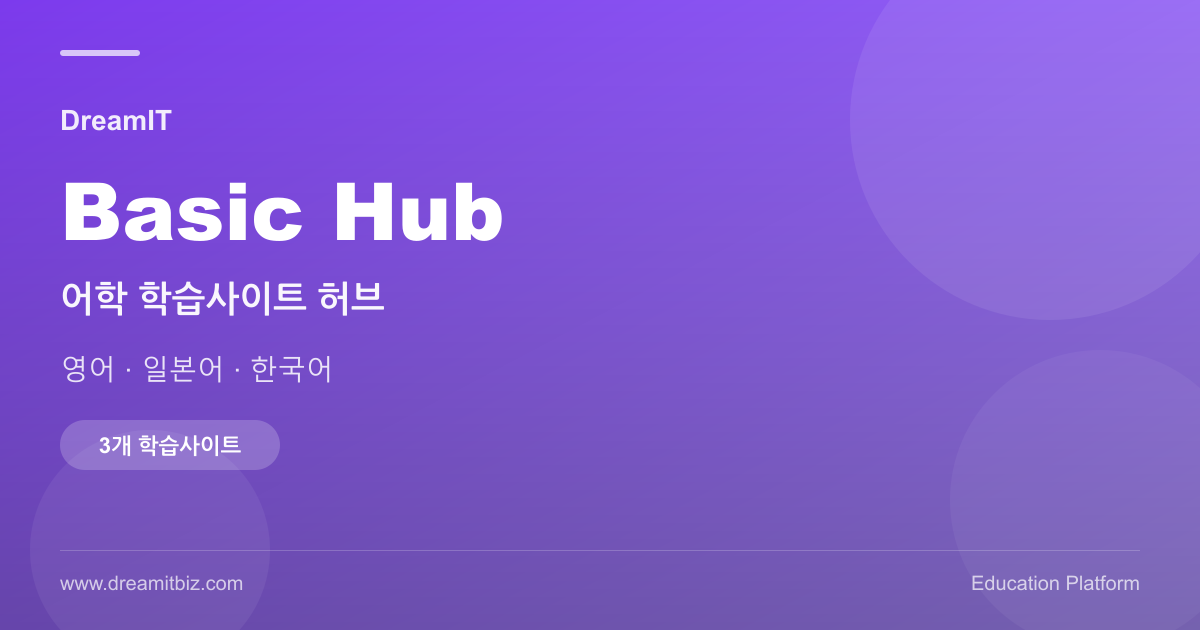
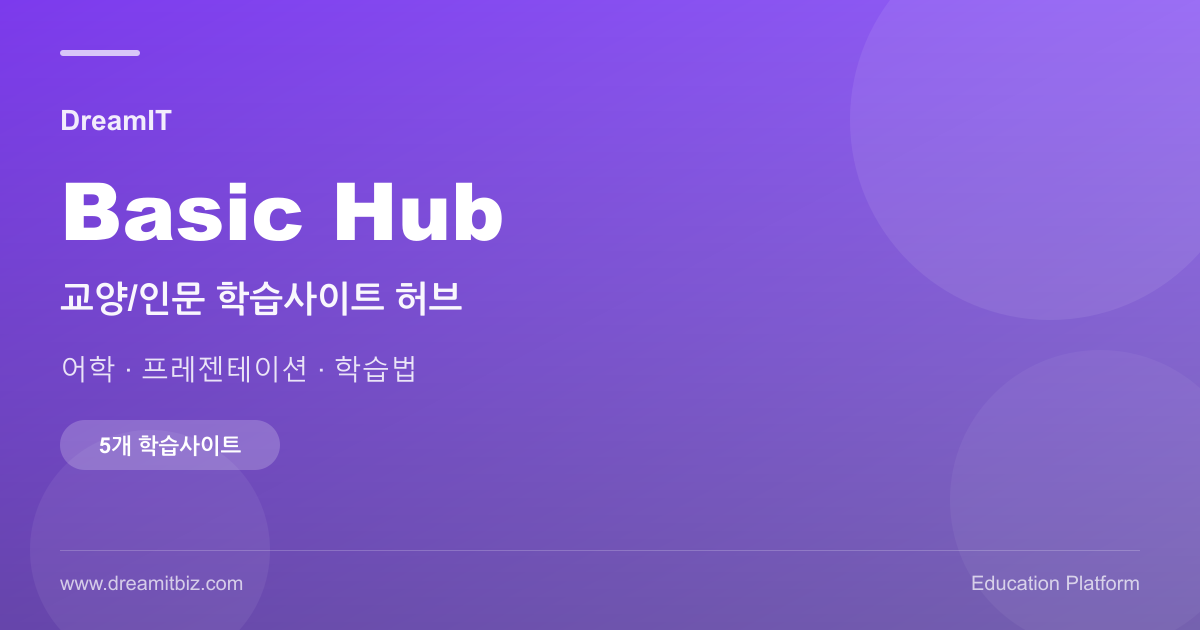
Rebrand as 교양/인문 hub, add presentation and study sites
- Renamed from 어학 to 교양/인문 (liberal arts & humanities) hub
- Added presentation and study (공부 잘하는 방법) to learningSites
- Added skill category alongside existing language category
- Updated all meta tags, translations (ko/en), OG image
- 3 → 5 learning sites, 1 → 2 categories

Changed region(s): [[0.0308, 0.4524, 0.4008, 0.5127], [0.1233, 0.5429, 0.37, 0.6032], [0.0308, 0.5429, 0.0925, 0.6032]]

diff --git a/src/utils/translations.ts b/src/utils/translations.ts
@@ -174,10 +174,13 @@ export const translations: Record<string, Record<string, unknown>> = {
     site: {
       nav: {
         courses: '강좌',
+        liberal: '교양/인문',
         language: '어학',
         english: '영어',
         japanese: '일본어',
         korean: '한국어',
+        presentation: '프레젠테이션',
+        study: '공부 잘하는 방법',
         pricing: '요금제',
         franchise: '사이트분양',
         franchiseInquiry: '분양 문의',
@@ -188,8 +191,8 @@ export const translations: Record<string, Record<string, unknown>> = {
       },
       home: {
         title: 'DreamIT Basic Hub',
-        subtitle: '어학 학습의 새로운 기준',
-        heroDesc: '영어, 일본어, 한국어 — 어학 3개 학습사이트를 하나의 허브에서 만나보세요.',
+        subtitle: '교양/인문 학습의 새로운 기준',
+        heroDesc: '어학, 프레젠테이션, 학습법 — 교양/인문 5개 학습사이트를 하나의 허브에서 만나보세요.',
         ctaStart: '강좌 둘러보기',
         ctaFranchise: '사이트 분양 문의',
         statsTitle: 'Basic Hub 현황',
@@ -198,24 +201,26 @@ export const translations: Record<string, Record<string, unknown>> = {
         statCategories: '카테고리',
         statCompletion: '만족도',
         categoriesTitle: '학습 카테고리',
-        categoriesSubtitle: '체계적인 어학 교육 커리큘럼을 제공합니다',
+        categoriesSubtitle: '교양과 인문학을 아우르는 체계적인 교육 커리큘럼을 제공합니다',
         categoryCoursesCount: '개 강좌',
         categoryViewAll: '전체 보기',
         categoryLanguageDesc: '영어, 일본어, 한국어를 체계적으로 학습합니다.',
-        ctaBottomTitle: '지금 어학 학습을 시작하세요',
-        ctaBottomDesc: '3개 어학 학습사이트에서 체계적인 커리큘럼으로 학습할 수 있습니다.',
+        categorySkillDesc: '프레젠테이션, 학습법 등 실용 교양 스킬을 학습합니다.',
+        ctaBottomTitle: '지금 교양/인문 학습을 시작하세요',
+        ctaBottomDesc: '5개 교양/인문 학습사이트에서 체계적인 커리큘럼으로 학습할 수 있습니다.',
         ctaBottomBtn: '강좌 시작하기'
       },
       courses: {
         title: '전체 강좌',
-        subtitle: '어학 학습사이트의 모든 강좌를 확인하세요',
+        subtitle: '교양/인문 학습사이트의 모든 강좌를 확인하세요',
         curriculum: '커리큘럼',
         features: '특징',
         target: '대상',
         visitSite: '사이트 방문하기',
         comingSoon: '준비중',
         categoryTitle: {
-          language: '어학 강좌'
+          language: '어학 강좌',
+          skill: '교양/스킬 강좌'
         }
       },
       difficulty: {
@@ -225,12 +230,12 @@ export const translations: Record<string, Record<string, unknown>> = {
       },
       franchise: {
         title: '사이트 분양',
-        subtitle: '어학 학습사이트를 분양받아 운영하세요',
+        subtitle: '교양/인문 학습사이트를 분양받아 운영하세요',
         benefitsTitle: '분양 혜택',
         benefit1Title: '맞춤형 디자인',
         benefit1Desc: '브랜드에 맞는 커스터마이징 디자인을 제공합니다.',
         benefit2Title: '콘텐츠 패키지',
-        benefit2Desc: '검증된 어학 학습 콘텐츠를 포함하여 제공합니다.',
+        benefit2Desc: '검증된 교양/인문 학습 콘텐츠를 포함하여 제공합니다.',
         benefit3Title: '기술 지원',
         benefit3Desc: '지속적인 기술 지원과 업데이트를 제공합니다.',
         benefit4Title: '교육 컨설팅',
@@ -245,7 +250,7 @@ export const translations: Record<string, Record<string, unknown>> = {
         formSite: '희망 사이트',
         formSiteSelect: '사이트를 선택하세요',
         formExperience: '관련 경험',
-        formExperiencePh: '교육 또는 어학 관련 경험을 작성해주세요',
+        formExperiencePh: '교육 또는 교양/인문 관련 경험을 작성해주세요',
         formMotivation: '분양 동기',
         formMotivationPh: '사이트 분양을 희망하는 이유를 작성해주세요',
         formPortfolio: '포트폴리오 URL (선택)',
@@ -260,12 +265,12 @@ export const translations: Record<string, Record<string, unknown>> = {
         title: '허브 소개',
         subtitle: 'DreamIT Basic Hub에 대해 알아보세요',
         missionTitle: '미션',
-        missionDesc: '체계적인 어학 교육을 통해 누구나 외국어 역량을 키울 수 있는 학습 환경을 제공합니다.',
+        missionDesc: '교양과 인문학 교육을 통해 누구나 폭넓은 지식과 소양을 갖출 수 있는 학습 환경을 제공합니다.',
         visionTitle: '비전',
-        visionDesc: '어학 교육의 디지털 혁신을 이끌어, 대한민국 최고의 어학 학습 허브가 되겠습니다.',
+        visionDesc: '교양/인문 교육의 디지털 혁신을 이끌어, 대한민국 최고의 교양/인문 학습 허브가 되겠습니다.',
         valuesTitle: '핵심 가치',
         value1Title: '실무 중심',
-        value1Desc: '실생활에서 바로 활용할 수 있는 실전형 어학 교육을 추구합니다.',
+        value1Desc: '실생활에서 바로 활용할 수 있는 실전형 교양/인문 교육을 추구합니다.',
         value2Title: '글로벌 관점',
         value2Desc: '글로벌 소통 능력을 키우는 데 초점을 맞춥니다.',
         value3Title: '혁신',
@@ -285,10 +290,10 @@ export const translations: Record<string, Record<string, unknown>> = {
       },
       pricing: {
         title: '요금제 안내',
-        subtitle: '학습 목표에 맞는 요금제를 선택하세요. 모든 플랜에서 어학 학습 콘텐츠를 이용할 수 있습니다.',
+        subtitle: '학습 목표에 맞는 요금제를 선택하세요. 모든 플랜에서 교양/인문 학습 콘텐츠를 이용할 수 있습니다.',
         recommended: '추천',
         freeName: 'Free',
-        freeDesc: '어학 학습을 체험하고 시작할 수 있습니다.',
+        freeDesc: '교양/인문 학습을 체험하고 시작할 수 있습니다.',
         freeFeatures: '1개 강좌 체험|기본 학습 자료|커뮤니티 접근|이메일 지원',
         freeBtn: '무료 시작',
         basicName: 'Basic',
@@ -325,7 +330,7 @@ export const translations: Record<string, Record<string, unknown>> = {
         faq3: { q: '결제 수단은 어떤 것을 지원하나요?', a: '신용카드 및 체크카드 결제를 지원합니다. PortOne 결제 시스템을 통해 안전하게 처리됩니다.' },
         faq4: { q: '환불 정책은 어떻게 되나요?', a: '결제 후 7일 이내에 서비스를 이용하지 않은 경우 전액 환불이 가능합니다.' },
         faq5: { q: 'Enterprise 요금제는 어떻게 신청하나요?', a: '분양 문의 페이지에서 신청하시면 담당자가 맞춤 상담을 진행합니다.' },
-        ctaTitle: '지금 어학 학습을 시작하세요',
+        ctaTitle: '지금 교양/인문 학습을 시작하세요',
         ctaDesc: '무료로 체험하고, 학습 목표에 맞는 요금제를 선택하세요.',
         ctaBtn: '무료로 시작하기',
       }
@@ -507,10 +512,13 @@ export const translations: Record<string, Record<string, unknown>> = {
     site: {
       nav: {
         courses: 'Courses',
+        liberal: 'Liberal Arts',
         language: 'Languages',
         english: 'English',
         japanese: 'Japanese',
         korean: 'Korean',
+        presentation: 'Presentation',
+        study: 'Study Methods',
         pricing: 'Pricing',
         franchise: 'Site Franchise',
         franchiseInquiry: 'Franchise Inquiry',
@@ -521,8 +529,8 @@ export const translations: Record<string, Record<string, unknown>> = {
       },
       home: {
         title: 'DreamIT Basic Hub',
-        subtitle: 'A New Standard for Language Learning',
-        heroDesc: 'English, Japanese, Korean — explore 3 language learning sites all in one hub.',
+        subtitle: 'A New Standard for Liberal Arts Learning',
+        heroDesc: 'Languages, presentation, study methods — explore 5 liberal arts learning sites all in one hub.',
         ctaStart: 'Browse Courses',
         ctaFranchise: 'Franchise Inquiry',
         statsTitle: 'Basic Hub Overview',
@@ -531,24 +539,26 @@ export const translations: Record<string, Record<string, unknown>> = {
         statCategories: 'Categories',
         statCompletion: 'Satisfaction',
         categoriesTitle: 'Learning Categories',
-        categoriesSubtitle: 'We provide a systematic language education curriculum',
+        categoriesSubtitle: 'We provide a systematic liberal arts and humanities curriculum',
         categoryCoursesCount: ' courses',
         categoryViewAll: 'View All',
         categoryLanguageDesc: 'Systematically learn English, Japanese, and Korean.',
-        ctaBottomTitle: 'Start Your Language Learning Today',
-        ctaBottomDesc: 'Learn with structured curricula across 3 language learning sites.',
+        categorySkillDesc: 'Learn practical liberal arts skills including presentation and study methods.',
+        ctaBottomTitle: 'Start Your Liberal Arts Learning Today',
+        ctaBottomDesc: 'Learn with structured curricula across 5 liberal arts and humanities sites.',
         ctaBottomBtn: 'Get Started'
       },
       courses: {
         title: 'All Courses',
-        subtitle: 'Explore all courses across language learning sites',
+        subtitle: 'Explore all courses across liberal arts learning sites',
         curriculum: 'Curriculum',
         features: 'Features',
         target: 'Target Audience',
         visitSite: 'Visit Site',
         comingSoon: 'Coming Soon',
         categoryTitle: {
-          language: 'Language Courses'
+          language: 'Language Courses',
+          skill: 'Liberal Arts & Skills Courses'
         }
       },
       difficulty: {
@@ -558,12 +568,12 @@ export const translations: Record<string, Record<string, unknown>> = {
       },
       franchise: {
         title: 'Site Franchise',
-        subtitle: 'Operate your own language learning site',
+        subtitle: 'Operate your own liberal arts learning site',
         benefitsTitle: 'Franchise Benefits',
         benefit1Title: 'Custom Design',
         benefit1Desc: 'We provide customized designs tailored to your brand.',
         benefit2Title: 'Content Package',
-        benefit2Desc: 'Includes verified language learning content.',
+        benefit2Desc: 'Includes verified liberal arts learning content.',
         benefit3Title: 'Technical Support',
         benefit3Desc: 'Ongoing technical support and updates are provided.',
         benefit4Title: 'Education Consulting',
@@ -578,7 +588,7 @@ export const translations: Record<string, Record<string, unknown>> = {
         formSite: 'Preferred Site',
         formSiteSelect: 'Select a site',
         formExperience: 'Related Experience',
-        formExperiencePh: 'Describe your education or language experience',
+        formExperiencePh: 'Describe your education or liberal arts experience',
         formMotivation: 'Motivation',
         formMotivationPh: 'Describe why you want to franchise a site',
         formPortfolio: 'Portfolio URL (optional)',
@@ -593,12 +603,12 @@ export const translations: Record<string, Record<string, unknown>> = {
         title: 'About Hub',
         subtitle: 'Learn about DreamIT Basic Hub',
         missionTitle: 'Mission',
-        missionDesc: 'We provide a learning environment where anyone can develop foreign language skills through systematic education.',
+        missionDesc: 'We provide a learning environment where anyone can develop broad knowledge and cultural literacy through liberal arts education.',
         visionTitle: 'Vision',
-        visionDesc: 'Leading digital innovation in language education to become the premier language learning hub in Korea.',
+        visionDesc: 'Leading digital innovation in liberal arts education to become the premier liberal arts learning hub in Korea.',
         valuesTitle: 'Core Values',
         value1Title: 'Practice-Oriented',
-        value1Desc: 'We pursue practical language education applicable to real life.',
+        value1Desc: 'We pursue practical liberal arts education applicable to real life.',
         value2Title: 'Global Perspective',
         value2Desc: 'We focus on building global communication skills.',
         value3Title: 'Innovation',
@@ -618,10 +628,10 @@ export const translations: Record<string, Record<string, unknown>> = {
       },
       pricing: {
         title: 'Pricing Plans',
-        subtitle: 'Choose the plan that fits your learning goals. All plans include access to language learning content.',
+        subtitle: 'Choose the plan that fits your learning goals. All plans include access to liberal arts learning content.',
         recommended: 'Recommended',
         freeName: 'Free',
-        freeDesc: 'Try and start your language learning journey.',
+        freeDesc: 'Try and start your liberal arts learning journey.',
         freeFeatures: '1 course trial|Basic learning materials|Community access|Email support',
         freeBtn: 'Start Free',
         basicName: 'Basic',
@@ -658,7 +668,7 @@ export const translations: Record<string, Record<string, unknown>> = {
         faq3: { q: 'What payment methods are supported?', a: 'We support credit and debit card payments, processed securely through PortOne.' },
         faq4: { q: 'What is the refund policy?', a: 'Full refund is available within 7 days of payment if the service has not been used.' },
         faq5: { q: 'How do I apply for Enterprise?', a: 'Submit an inquiry on the Franchise page and our team will provide a custom consultation.' },
-        ctaTitle: 'Start Your Language Learning Today',
+        ctaTitle: 'Start Your Liberal Arts Learning Today',
         ctaDesc: 'Try for free and choose the plan that fits your goals.',
         ctaBtn: 'Start Free',
       }

diff --git a/src/config/site.ts b/src/config/site.ts
@@ -1,6 +1,6 @@
 /**
  * DreamIT Basic Hub - 사이트 설정 파일
- * 어학 학습사이트 허브의 브랜드, 메뉴, 학습사이트 정보를 정의합니다.
+ * 교양/인문 학습사이트 허브의 브랜드, 메뉴, 학습사이트 정보를 정의합니다.
  */
 
 import type { SiteConfig } from '../types';
@@ -8,8 +8,8 @@ import type { SiteConfig } from '../types';
 const site: SiteConfig = {
   id: 'basic-hub',
   name: 'DreamIT Basic Hub',
-  nameKo: '드림아이티 어학학습사이트',
-  description: 'DreamIT Basic Hub - 어학 학습사이트 허브. 영어, 일본어, 한국어 등 3개 어학 학습 플랫폼',
+  nameKo: '드림아이티 교양인문학습사이트',
+  description: 'DreamIT Basic Hub - 교양/인문 학습사이트 허브. 어학, 프레젠테이션, 학습법 등 5개 학습 플랫폼',
   url: 'https://basic-hub.dreamitbiz.com',
   dbPrefix: 'bsh_',
 
@@ -48,15 +48,18 @@ const site: SiteConfig = {
 
   categories: [
     { id: 'language', name: '어학', nameEn: 'Languages', icon: 'fa-solid fa-language', path: '/courses/language' },
+    { id: 'skill', name: '교양/스킬', nameEn: 'Liberal Arts & Skills', icon: 'fa-solid fa-lightbulb', path: '/courses/skill' },
   ],
 
   menuItems: [
     {
-      labelKey: 'site.nav.language', path: '/courses/language', activePath: '/courses/language',
+      labelKey: 'site.nav.liberal', path: '/courses/language', activePath: '/courses',
       dropdown: [
         { path: '/courses/english', labelKey: 'site.nav.english' },
         { path: '/courses/japanese', labelKey: 'site.nav.japanese' },
         { path: '/courses/korean', labelKey: 'site.nav.korean' },
+        { path: '/courses/presentation', labelKey: 'site.nav.presentation' },
+        { path: '/courses/study', labelKey: 'site.nav.study' },
       ]
     },
     {
@@ -78,7 +81,7 @@ const site: SiteConfig = {
   ],
 
   footerLinks: [
-    { path: '/courses/language', labelKey: 'site.nav.language' },
+    { path: '/courses/language', labelKey: 'site.nav.liberal' },
     { path: '/franchise', labelKey: 'site.nav.franchise' },
     { path: '/about', labelKey: 'site.nav.community' },
   ],
@@ -126,6 +129,30 @@ const site: SiteConfig = {
       features: ['TOPIK 대비', '한국 문화 학습', '실전 회화'],
       featuresEn: ['TOPIK prep', 'Korean culture', 'Real conversation'],
       target: '외국인 한국어 학습자, TOPIK 준비생', targetEn: 'Foreign Korean learners, TOPIK candidates',
+    },
+    {
+      id: 'presentation', name: '프레젠테이션', nameEn: 'Presentation', url: 'https://presentation.dreamitbiz.com',
+      icon: 'fa-solid fa-person-chalkboard', color: '#E11D48', category: 'skill',
+      description: 'PPT 디자인, 스피치, 스토리텔링 등 효과적인 발표 기법을 학습합니다.',
+      descriptionEn: 'Learn effective presentation skills including PPT design, speech, and storytelling.',
+      techStack: ['PPT', '스피치', '시각디자인', '스토리텔링'], difficulty: 'beginner',
+      curriculum: ['프레젠테이션 기획', 'PPT 디자인 원칙', '스피치 전달 기법', '데이터 시각화', '영어 프레젠테이션'],
+      curriculumEn: ['Presentation planning', 'PPT design principles', 'Speech delivery', 'Data visualization', 'English presentations'],
+      features: ['실전 발표 연습', '템플릿 제공', '피드백 시스템'],
+      featuresEn: ['Practical presentation practice', 'Template library', 'Feedback system'],
+      target: '직장인, 학생, 발표 준비자', targetEn: 'Professionals, students, presenters',
+    },
+    {
+      id: 'study', name: '공부 잘하는 방법', nameEn: 'Study Methods', url: 'https://study.dreamitbiz.com',
+      icon: 'fa-solid fa-brain', color: '#8B5CF6', category: 'skill',
+      description: '학습법, 기억력 향상, 시간관리, 시험전략 등 효과적인 학습 노하우를 배웁니다.',
+      descriptionEn: 'Learn effective study methods including memory techniques, time management, and exam strategies.',
+      techStack: ['학습법', '기억력', '시간관리', '시험전략'], difficulty: 'beginner',
+      curriculum: ['효과적인 학습법', '기억력 향상 테크닉', '시간관리와 계획', '시험 전략', '자기주도 학습'],
+      curriculumEn: ['Effective study methods', 'Memory enhancement techniques', 'Time management and planning', 'Exam strategies', 'Self-directed learning'],
+      features: ['학습 진단', '맞춤형 학습 플랜', '실전 테스트'],
+      featuresEn: ['Learning assessment', 'Personalized study plans', 'Practice tests'],
+      target: '학생, 수험생, 자기계발 학습자', targetEn: 'Students, exam candidates, self-improvement learners',
     },
   ],
 };

diff --git a/index.html b/index.html
@@ -4,27 +4,27 @@
     <meta charset="UTF-8" />
     <link rel="icon" type="image/svg+xml" href="/favicon.svg" />
     <meta name="viewport" content="width=device-width, initial-scale=1.0" />
-    <meta name="description" content="영어, 일본어, 한국어 — 어학 3개 학습사이트를 하나의 허브에서 만나보세요. 어학 1개 트랙 제공." />
+    <meta name="description" content="어학, 프레젠테이션, 학습법 — 교양/인문 5개 학습사이트를 하나의 허브에서 만나보세요. 어학·교양스킬 2개 트랙 제공." />
     <meta name="author" content="DreamIT Biz" />
-    <meta name="keywords" content="어학,영어,일본어,한국어,외국어,언어학습,영어회화,JLPT,TOPIK,온라인학습,LMS" />
+    <meta name="keywords" content="교양,인문학,어학,영어,일본어,한국어,인문,교양학습,리버럴아츠,온라인학습,LMS" />
     <meta name="theme-color" content="#7C3AED" />
     <meta name="robots" content="index, follow" />
     <link rel="canonical" href="https://basic-hub.dreamitbiz.com/" />
     <meta property="og:url" content="https://basic-hub.dreamitbiz.com/" />
     <meta property="og:type" content="website" />
-    <meta property="og:title" content="DreamIT Basic Hub — 어학 학습사이트 허브" />
-    <meta property="og:description" content="영어·일본어·한국어 — 어학 3개 학습사이트를 하나의 허브에서. 어학 1개 트랙 제공." />
+    <meta property="og:title" content="DreamIT Basic Hub — 교양/인문 학습사이트 허브" />
+    <meta property="og:description" content="어학·프레젠테이션·학습법 — 교양/인문 5개 학습사이트를 하나의 허브에서. 어학·교양스킬 2개 트랙 제공." />
     <meta property="og:image" content="https://basic-hub.dreamitbiz.com/og-image.png?v=20260408" />
     <meta property="og:image:width" content="1200" />
     <meta property="og:image:height" content="630" />
-    <meta property="og:image:alt" content="DreamIT Basic Hub - 어학 3개 학습사이트 허브" />
+    <meta property="og:image:alt" content="DreamIT Basic Hub - 교양/인문 5개 학습사이트 허브" />
     <meta property="og:site_name" content="DreamIT Basic Hub" />
     <meta property="og:locale" content="ko_KR" />
     <meta name="twitter:card" content="summary_large_image" />
-    <meta name="twitter:title" content="DreamIT Basic Hub — 어학 학습사이트 허브" />
-    <meta name="twitter:description" content="영어·일본어·한국어 — 어학 3개 학습사이트를 하나의 허브에서. 어학 1개 트랙 제공." />
+    <meta name="twitter:title" content="DreamIT Basic Hub — 교양/인문 학습사이트 허브" />
+    <meta name="twitter:description" content="어학·프레젠테이션·학습법 — 교양/인문 5개 학습사이트를 하나의 허브에서. 어학·교양스킬 2개 트랙 제공." />
     <meta name="twitter:image" content="https://basic-hub.dreamitbiz.com/og-image.png?v=20260408" />
-    <title>DreamIT Basic Hub | 어학학습사이트</title>
+    <title>DreamIT Basic Hub | 교양인문학습사이트</title>
     <link rel="stylesheet" href="https://cdnjs.cloudflare.com/ajax/libs/font-awesome/6.7.2/css/all.min.css" integrity="sha512-Evv84Mr4kqVGRNSgIGL/F/aIDqQb7xQ2vcrdIwxfjThSH8CSR7PBEakCr51Ck+w+/U6swU2Im1vVX0SVk9ABhg==" crossorigin="anonymous" referrerpolicy="no-referrer" />
     <link rel="preconnect" href="https://fonts.googleapis.com">
     <link rel="preconnect" href="https://fonts.gstatic.com" crossorigin>

diff --git a/src/pages/Home.tsx b/src/pages/Home.tsx
@@ -8,15 +8,16 @@ import type { ReactElement, RefObject } from 'react';
 
 const CATEGORY_DESC_KEYS: Record<string, string> = {
   'language': 'site.home.categoryLanguageDesc',
+  'skill': 'site.home.categorySkillDesc',
 };
 
 const Home = (): ReactElement => {
   const { t, language } = useLanguage();
   useAOS();
 
-  const statSites = useCountUp(3, 1500);
-  const statStudents = useCountUp(200, 2000);
-  const statCategories = useCountUp(1, 1500);
+  const statSites = useCountUp(5, 1500);
+  const statStudents = useCountUp(300, 2000);
+  const statCategories = useCountUp(2, 1500);
   const statCompletion = useCountUp(95, 2000);
 
   return (
